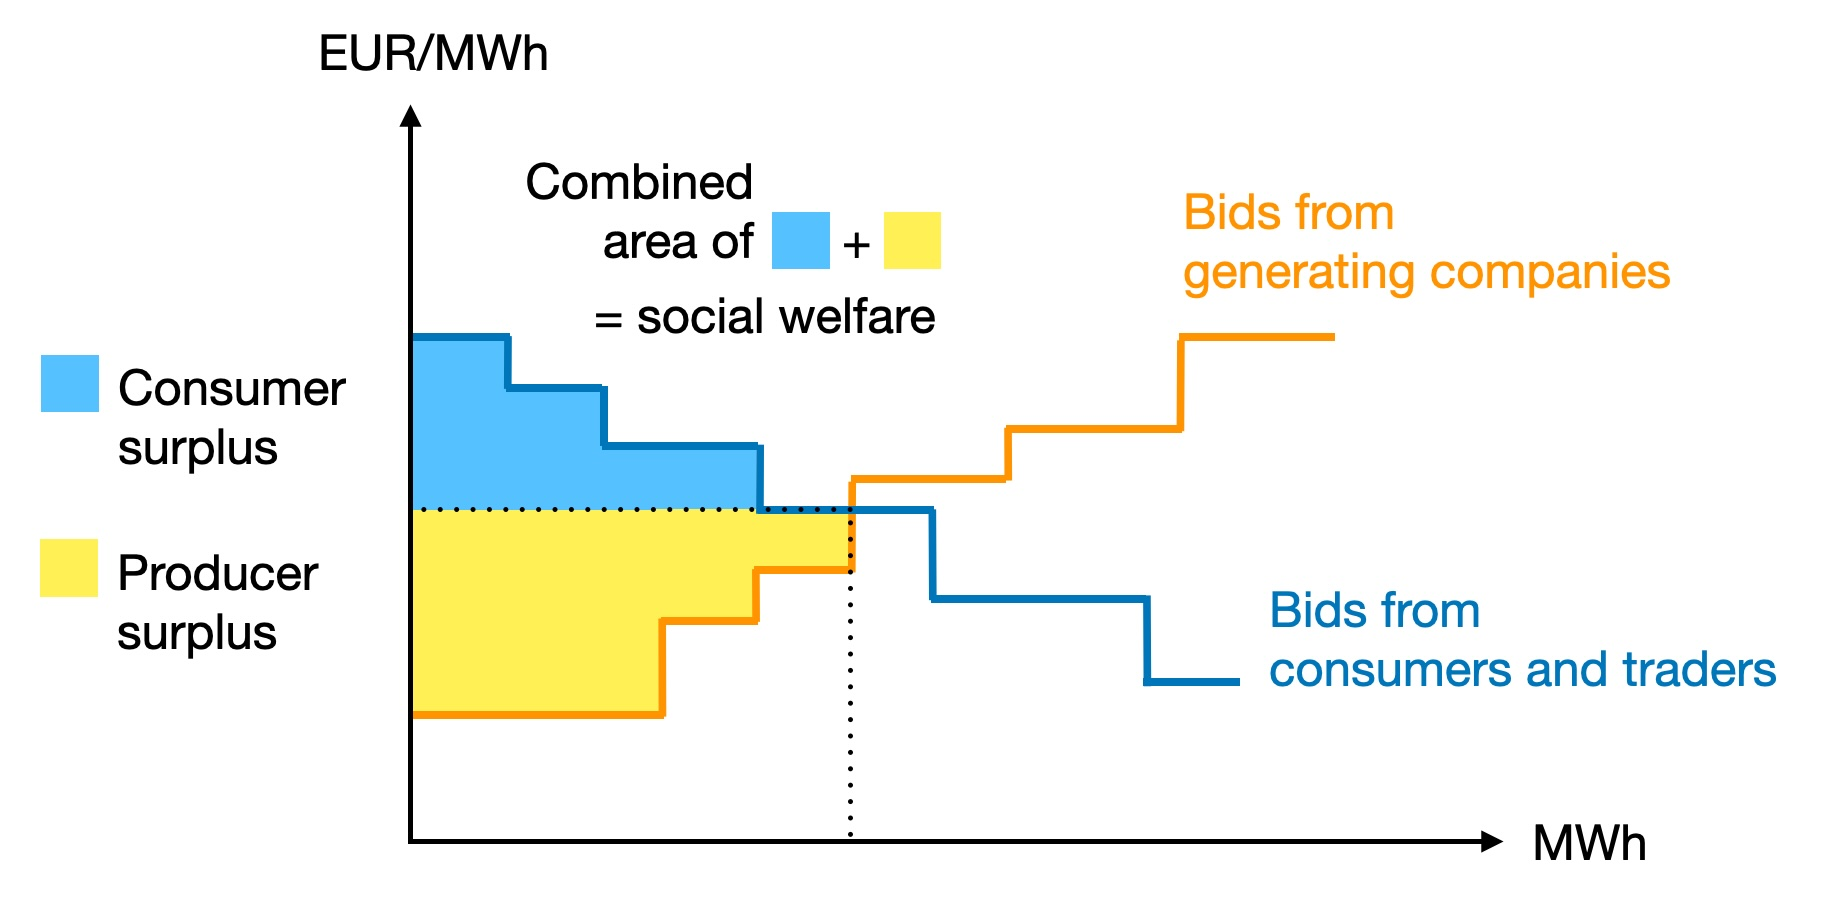
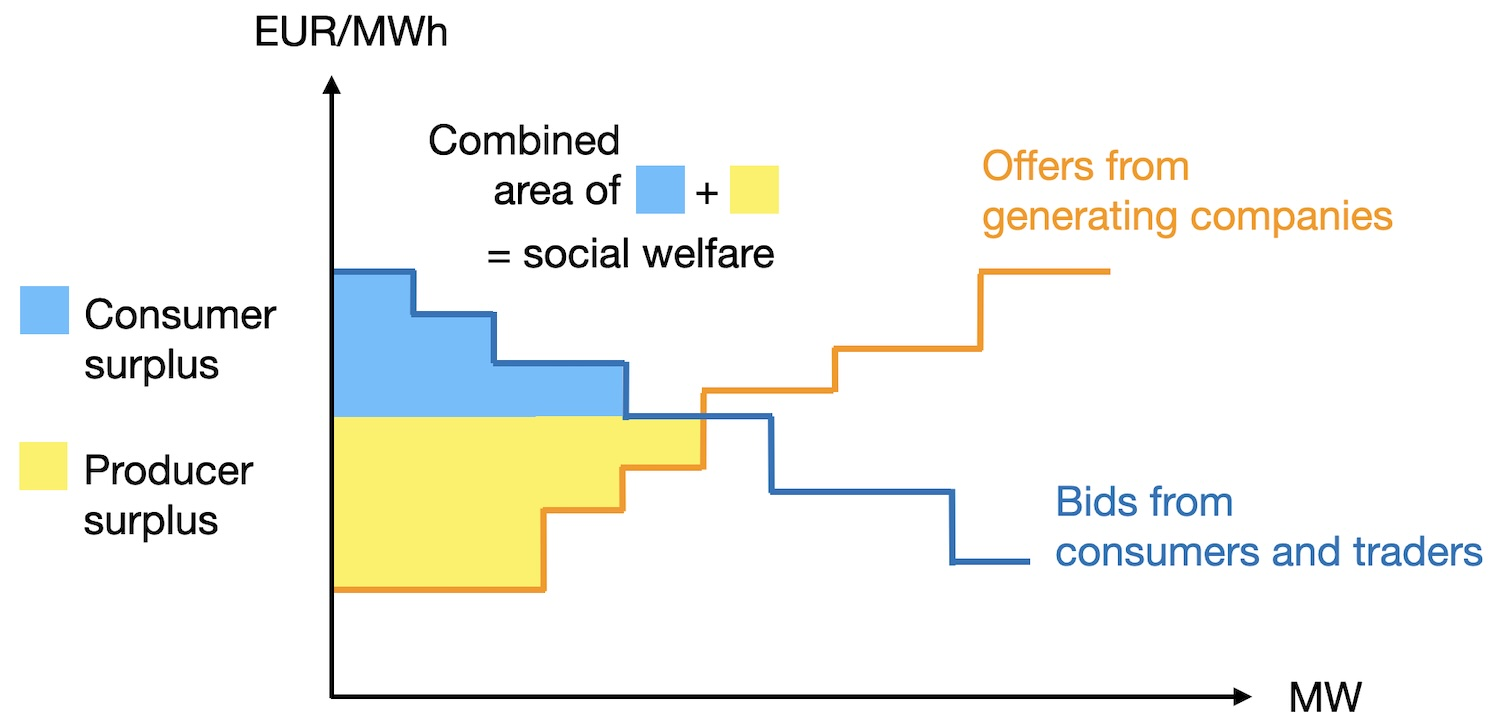
Fixed typos and minor errors in LP and MILP

diff --git a/basics/markets-milp.md b/basics/markets-milp.md
@@ -58,8 +58,8 @@ So our full unit commitment problem is the following:
 * {{circle_obj}} Objective (total generation cost, to be minimised): $C = 3 P_{G1} + 4 P_{G2}$
 * {{circle_constr}} Constraints:
     * Demand balance constraint: $P_{G1} + P_{G2} = 500$
-    * Operational constraints for unit 1: $u_1*100 \leq P_{G1} \leq u_1*400$
-    * Operational constraints for unit 2: $u_2*50 \leq P_{G2} \leq u_2*300$
+    * Operational constraints for unit 1: $u_1*50 \leq P_{G1} \leq u_1*300$
+    * Operational constraints for unit 2: $u_2*100 \leq P_{G2} \leq u_2*400$
     * Binary variable constraints: $u_{i} \in \{0, 1\} \quad \forall i$
 
 To solve this problem, we need an approach to deal with the newly-introduced binary (integer) variables.
@@ -68,7 +68,7 @@ To solve this problem, we need an approach to deal with the newly-introduced bin
 
 If we add binary (0/1) or integer (..., -1, 0, 1, 2, ...) variables to our problem, we turn it from an LP (linear programming) to MILP (mixed-integer linear programming) problem.
 
-We cons consider a simple example (from {cite:t}`hillier_introduction_2021`). Consider this linear optimisation problem:
+We consider a simple example (from {cite:t}`hillier_introduction_2021`). Consider this linear optimisation problem:
 
 \begin{align}
     \max &~ Z = x_1 + 5x_2 \\
@@ -114,7 +114,7 @@ So far, we only considered a single isolated time period (for example, a single 
 
 One way to do this is to consider ramping constraints. These constraints limit the change in power output of any unit between two consecutive time periods. You can imagine that there are physical limits to how fast a power plant can change its output: we cannot instantaneously change from outputting minimum power to outputting maximum power.
 
-In the problem formulation below, $t$ indicates the time period and $j$ indicates the generating unit.
+In the problem formulation below, $t$ indicates the time period and $i$ indicates the generating unit.
 
 :::{admonition} Choice of time period
 :class: note
@@ -122,7 +122,7 @@ In the problem formulation below, $t$ indicates the time period and $j$ indicate
 We are considering time as discrete steps. The choice of how large such an individual time step is has a dramatic impact on our problem formulation. For example, here we are modelling hourly time steps. In that context, thinking about ramping limits makes sense. If we were to consider daily or monthly time steps, ramping limits would likely not be relevant. But we might then still consider other ways in which the system state is connected across time periods, for example, storage levels in batteries or water levels in hydropower dams.
 :::
 
-In principle, our problem formulation remains almost the same as above. We simply make most of our model components time-dependent by adding the index $t$. For example, we want to consider power generation and the on/off state of each unit $i$ at time $t$: our variables become $P_{Git}$ and $u_{Dit}$.
+In principle, our problem formulation remains almost the same as above. We simply make most of our model components time-dependent by adding the index $t$. For example, we want to consider power generation and the on/off state of each unit $i$ at time $t$: our variables become $P_{Git}$ and $u_{it}$.
 
 ### Additional {{ labeled_circle_constr }} and {{ labeled_circle_params }}
 
@@ -184,13 +184,13 @@ In the literature, the offers and bids made by participants in the market are ge
 
 A bid for either supply or demand consists of a price and a maximum amount of electricity, e.g. a consumer may be willing to pay a price of 3 EUR/MWh for up to 10 MW of power in the hour of the day for which the auction is taking place.
 
-As market operator, our goal is to maximise social welfare ({numref}`fig:markets-milp:markets_social_welfare`). To do so, we sort the bids from producers by increasing cost, and the bids from consumers by decreasing cost. Consumer surplus is the amount of money that consumers would have been willing to pay but did not have to pay, at the current market price and scheduled demand/supply. Producer surplus is the amount of money that producers receive on top of what they would have been willing to accept. The area between the demand and supply curves represents the social welfare - the sum of producer surplus and consumer surplus.
+As market operator, our goal is to maximise social welfare ({numref}`fig:markets-milp:markets_social_welfare`). To do so, we sort the offers from producers by increasing cost, and the bids from consumers by decreasing cost. Consumer surplus is the amount of money that consumers would have been willing to pay but did not have to pay, at the current market price and scheduled demand/supply. Producer surplus is the amount of money that producers receive on top of what they would have been willing to accept. The area between the demand and supply curves represents the social welfare - the sum of producer surplus and consumer surplus.
 
 ```{figure} ../images/markets_social_welfare.jpg
 :name: fig:markets-milp:markets_social_welfare
 :figwidth: 600 px
 
-Social welfare as the sum of producer surplus and consumer surplus.
+Social welfare as the sum of producer surplus and consumer surplus. Note that since we are considering a single hour, we can consider the scheduled generation or consumption either in terms of MWh (energy) or MW (power), with the same numerical values.
 ```
 
 We are looking for both the market price of electricity and the scheduled demand/supply for the hour we are considering ({numref}`fig:markets-milp:markets_clearing_price`). Because we are maximising social welfare, this is the point at which the demand (consumer) and supply (producer) curves meet.
@@ -281,11 +281,11 @@ Each generator distributes their possible generation across three offers, while 
 | Max power $P^{\max}_{Djk}$ (MW) | 8 | 5 | 5 | 3 | 7 | 4 | 4 | 3 |
 | Price $\lambda_{Djk}$ (EUR/MWh) | 20 | 15 | 7 | 4 | 18 | 16 | 11 | 3 |
 
-We introduced the parameters, variables and objective function above. We should still briefly touch upon the constraints.
+We introduced the parameters, variables, objective function, and constraints above. We will still briefly explain the constraints further.
 
 #### {{ labeled_circle_constr }}
 
-We have two constraints to consider.
+There are two types of constraints.
 
 First, the supply offers and demand bids must be within their maximum sizes submitted to the market operator:
 
@@ -317,7 +317,7 @@ If we formulate and solve the optimisation problem from equations {eq}`eqn:marke
 
 ### Considering physical limits through additional constraints
 
-Let's have a closer look at this solution. We can see that in the optimal solution, all bids from generator 1 are accepted (5 + 12 + 13 = 30 MW, purple in {numref}`fig:markets-milp:fig_markets_acceptedbids`), and one bid from generator 2 is partially accepted (3 MW, yellow in the figure).
+Let's have a closer look at this solution. We can see that in the optimal solution, all offers from generator 1 are accepted (5 + 12 + 13 = 30 MW, purple in {numref}`fig:markets-milp:fig_markets_acceptedbids`), and one bid from generator 2 is partially accepted (3 MW, yellow in the figure).
 
 ```{figure} ../images-built/fig_markets_acceptedbids.jpg
 :name: fig:markets-milp:fig_markets_acceptedbids
@@ -378,7 +378,7 @@ We can solve the above problem easily (or rather, let the computer solve it for 
 
 * First, we solve the MILP problem.
 * Then we fix the binary variables to their values from the optimal solution to the MILP problem. We thus turn them from variables into parameters.
-* Then we re-solve the resulting continuous (LP) problem. Now we can obtain the shadow price of the market-clearing constraint in the LP problem will via the usual route (the dual problem, as solved automatically by the computer) - that will be the market-clearing price.
+* Then we re-solve the resulting continuous (LP) problem. Now we can obtain the shadow price of the market-clearing constraint in the LP problem via the usual route (the dual problem, as solved automatically by the computer) - that will be the market-clearing price.
 
 However, these are the shadow prices of a different problem - a version of the original market auction where we have fixed the binary variables. So this market-clearing price may result in individual generators or consumers making a loss. There are various solutions to this in practice: we can introduce additional constraints, or use the market clearing price from the "trick" above while providing additional out-of-market payments to market participants that are forced to make a loss.
 

diff --git a/basics/dispatch-lp.md b/basics/dispatch-lp.md
@@ -11,9 +11,9 @@ We start by looking at a simple problem. We are a power company that owns two po
 An illustrative economic dispatch problem with two power plants.
 ```
 
-We call this the economic dispatch (ED) problem. More generally, the problem is to distribute the total power demand among available power generators (also called "units" or "generating units") in a way that minimizes the total power generation cost. Each generating unit has different power generation costs based on how it generates power. What we usually consider in this kind of problem is the marginal cost, so, the cost of providing one additional unit of electricity. This implies that we do not consider the cost of building the power plant, only of operating it now that it exists.
+We call this the economic dispatch (ED) problem. More generally, the problem is to distribute the total power demand among available power generators (also called "units" or "generating units") in a way that minimises the total power generation cost. Each generating unit has different power generation costs based on how it generates power. What we usually consider in this kind of problem is the marginal cost, so, the cost of providing one additional unit of electricity. This implies that we do not consider the cost of building the power plant, only of operating it now that it exists.
 
-For a gas-fired power plant, for example, the main contributor to the power cost is the cost of gas. These costs can vary significantly across different units, for instance, the power generation costs for a nuclear unit and a gas-fired unit will differ widely. In addition, renewable generators like a wind farm have no or very small marginal generation costs, since their main resource - wind in the case of a wind farm - is free. We will return to that issue later.
+For a thermal power plant, for example, the main contributor to the power cost is the cost of fuel. These costs can vary significantly across different units, for instance, the power generation costs for a nuclear unit and a gas-fired unit will differ widely. In addition, renewable generators like a wind farm have no or very small marginal generation costs, since their main resource - wind in the case of a wind farm - is free. We will return to that issue later.
 
 ```{admonition} A note on terminology
 :class: tip
@@ -231,7 +231,7 @@ So far we looked at a simple case with only two dimensions, which allows us to r
 P_1 + P_2 \leq 500
 \end{equation}
 
-This does not necessarily make a lot of real-world sense - in our problem formulation we are minimising cost and so we would expect that electricity generation is as small as possible if there is no equality constraint that forces the model to deliver a certain demand. And indeed the new optimum is $J = 500$ ({numref}`fig-dispatchlp-modifieddemand`).
+This does not necessarily make a lot of real-world sense - in our problem formulation we are minimising cost and so we would expect that electricity generation is as small as possible if there is no equality constraint that forces the model to deliver a certain demand. And indeed the new optimum is $J = 550$ ({numref}`fig-dispatchlp-modifieddemand`).
 
 ```{figure} ../images-built/fig_dispatchlp_modifieddemand.jpg
 :name: fig-dispatchlp-modifieddemand

diff --git a/changelog.md b/changelog.md
@@ -4,6 +4,10 @@ title: Changelog
 
 # Changelog
 
+## Version 2024-10-07
+
+* Fixed typos and minor errors in chapters [Economic dispatch as a linear optimisation problem](basics/dispatch-lp.md) and [Power markets and mixed-integer programming](basics/markets-milp.md)
+
 ## Version 2024-10-03
 
 * Added [duality conversion summary in appendix](appendix/duality-conversion.md)
